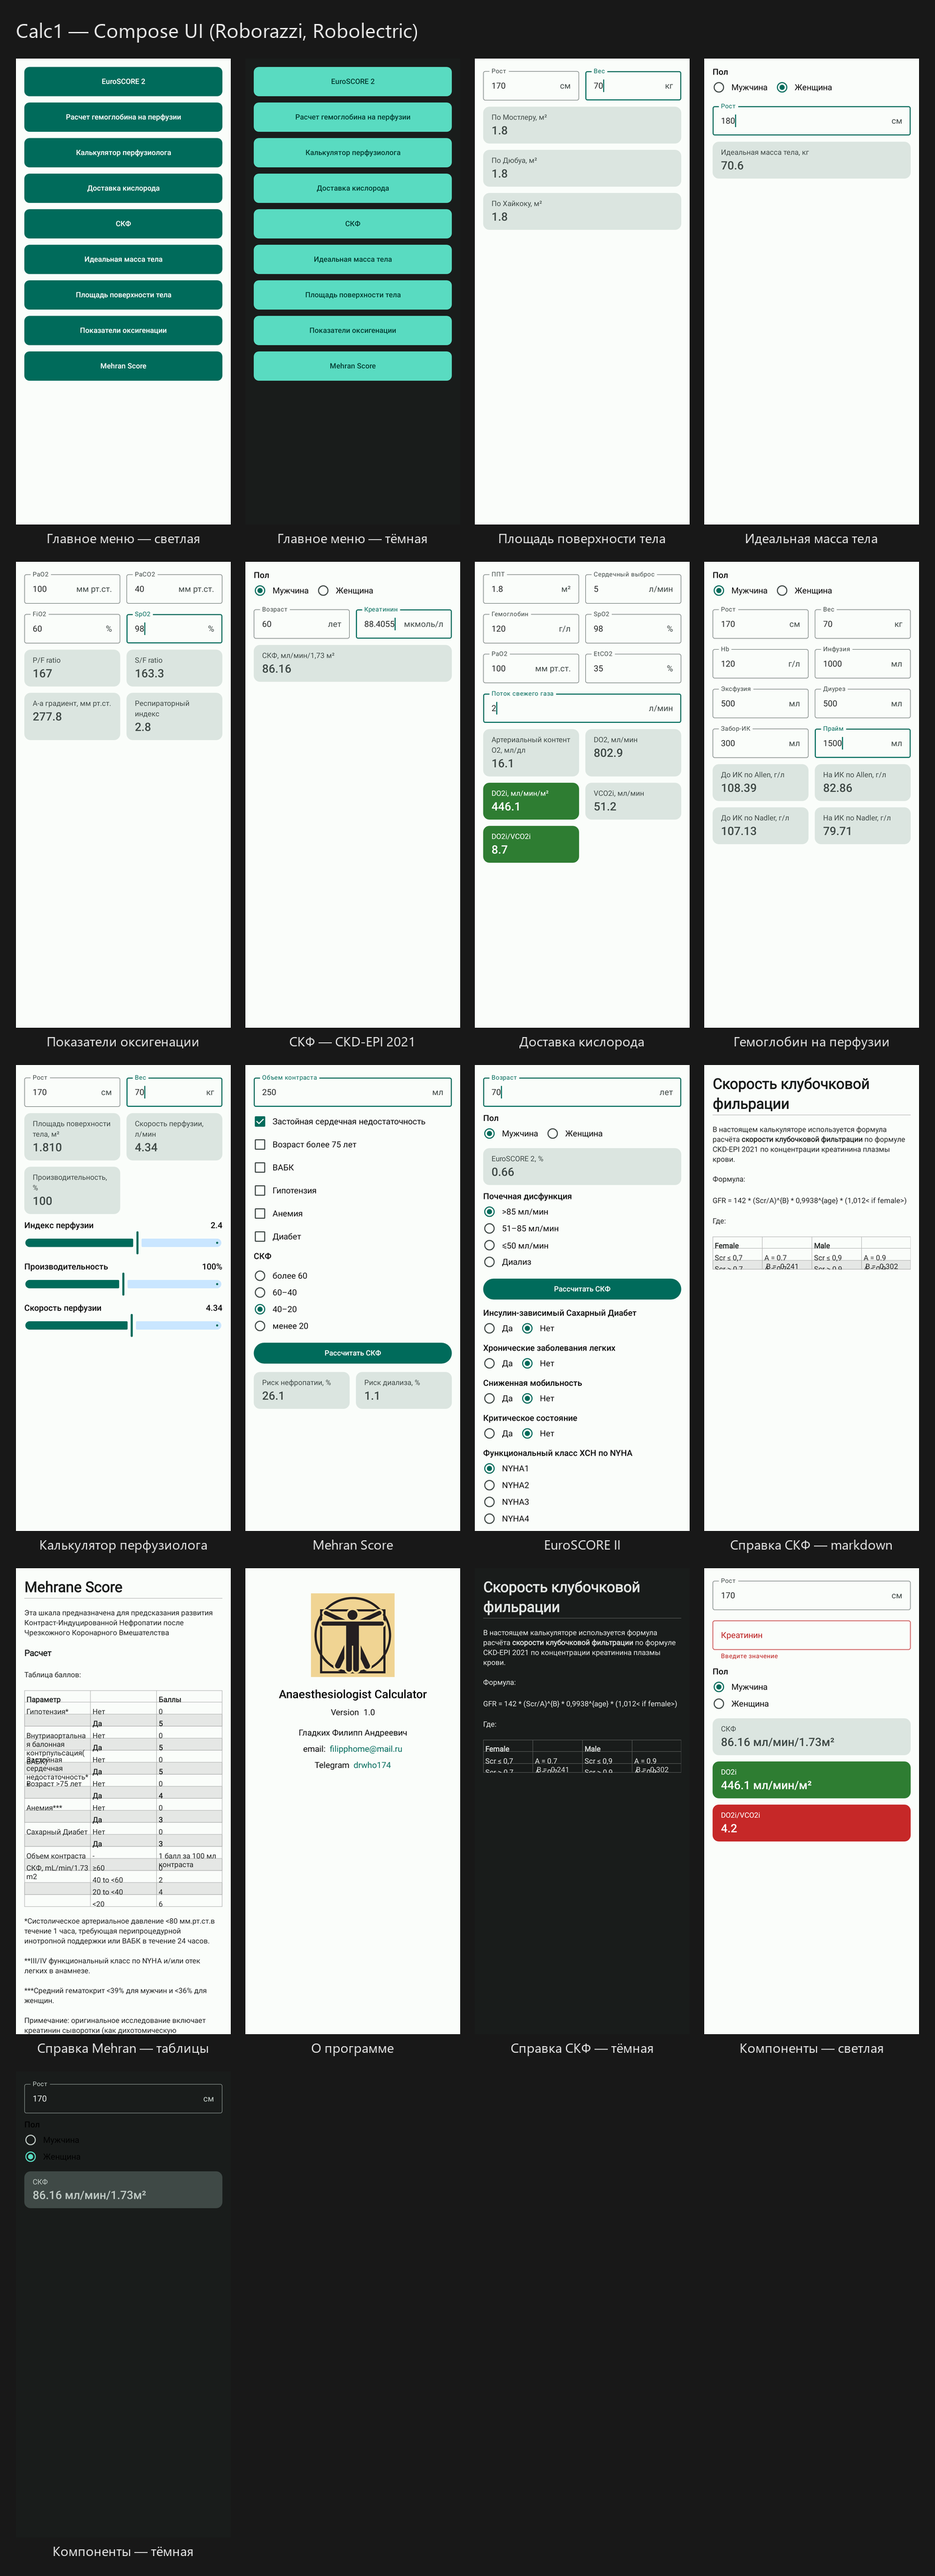
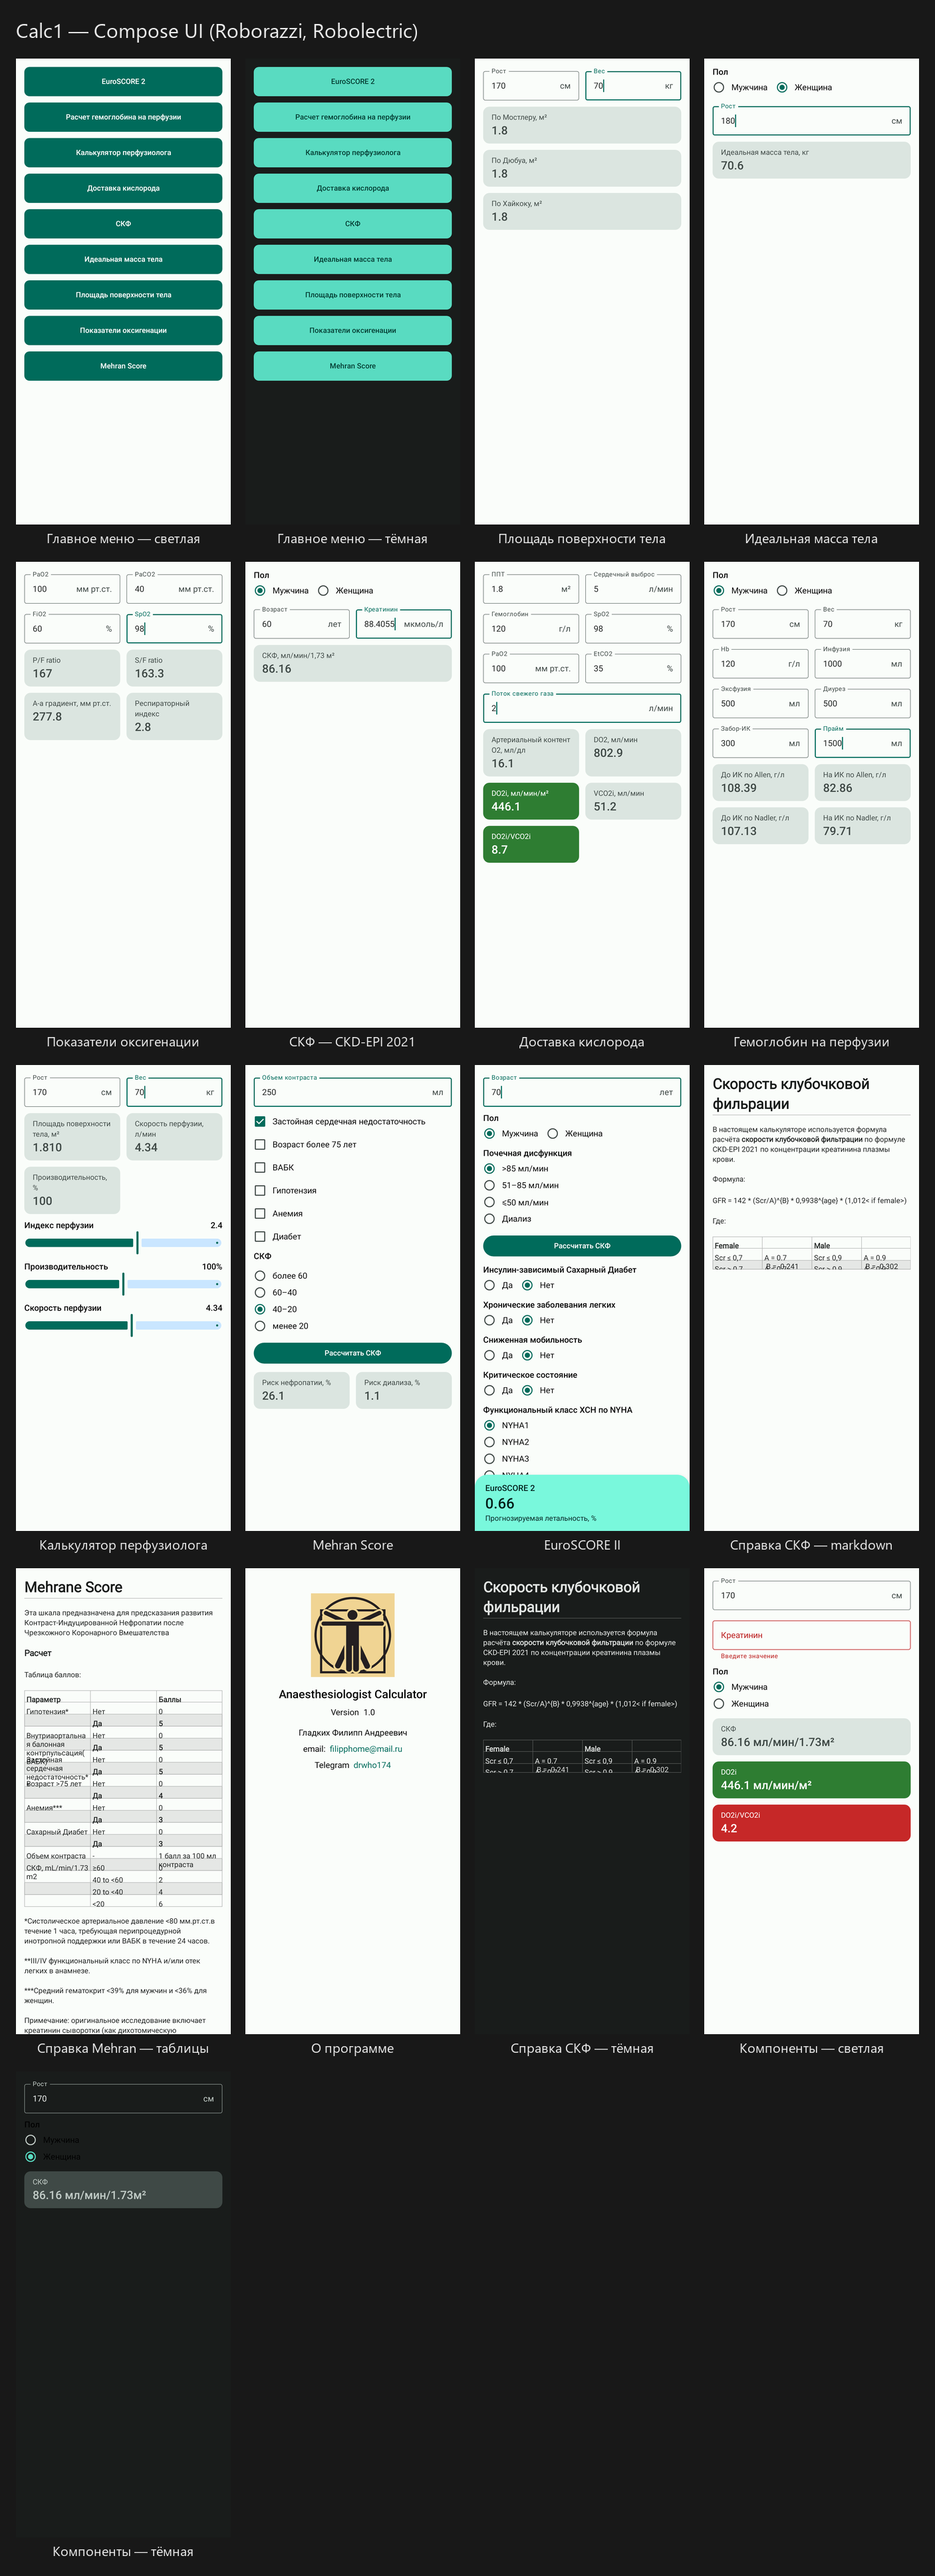
feat(ui): pinned bottom result bar for euroscore

Changed region(s): [[0.4893, 0.4341, 0.734, 0.6202]]

diff --git a/app/src/main/java/com/drwho174/calc1/ui/calc/euroscore/EuroScoreScreen.kt b/app/src/main/java/com/drwho174/calc1/ui/calc/euroscore/EuroScoreScreen.kt
@@ -2,9 +2,12 @@ package com.drwho174.calc1.ui.calc.euroscore
 
 import androidx.compose.foundation.background
 import androidx.compose.foundation.layout.Arrangement
+import androidx.compose.foundation.layout.Box
 import androidx.compose.foundation.layout.Column
+import androidx.compose.foundation.layout.Spacer
 import androidx.compose.foundation.layout.fillMaxSize
 import androidx.compose.foundation.layout.fillMaxWidth
+import androidx.compose.foundation.layout.height
 import androidx.compose.foundation.layout.padding
 import androidx.compose.foundation.rememberScrollState
 import androidx.compose.foundation.verticalScroll
@@ -17,6 +20,7 @@ import androidx.compose.runtime.mutableStateOf
 import androidx.compose.runtime.remember
 import androidx.compose.runtime.saveable.rememberSaveable
 import androidx.compose.runtime.setValue
+import androidx.compose.ui.Alignment
 import androidx.compose.ui.Modifier
 import androidx.compose.ui.res.stringResource
 import androidx.compose.ui.tooling.preview.Preview
@@ -32,10 +36,10 @@ import com.drwho174.calc1.domain.Urgency
 import com.drwho174.calc1.domain.euroScore2PredictedMortality
 import com.drwho174.calc1.domain.renalDiseaseFor
 import com.drwho174.calc1.ui.common.format
+import com.drwho174.calc1.ui.components.BottomResultBar
 import com.drwho174.calc1.ui.components.ChoiceGroup
 import com.drwho174.calc1.ui.components.CkdEpiSheet
 import com.drwho174.calc1.ui.components.NumberField
-import com.drwho174.calc1.ui.components.ResultCard
 import com.drwho174.calc1.ui.theme.Calc1Theme
 
 /** EuroSCORE II: 17 факторов риска и прогноз летальности. */
@@ -130,14 +134,18 @@ fun EuroScoreScreen(modifier: Modifier = Modifier) {
         ProcedureWeight.THREE_PROCEDURES to stringResource(R.string.threeProcedures),
     )
 
-    Column(
+    Box(
         modifier = modifier
             .fillMaxSize()
-            .background(MaterialTheme.colorScheme.background)
-            .verticalScroll(rememberScrollState())
-            .padding(16.dp),
-        verticalArrangement = Arrangement.spacedBy(12.dp),
+            .background(MaterialTheme.colorScheme.background),
     ) {
+        Column(
+            modifier = Modifier
+                .fillMaxSize()
+                .verticalScroll(rememberScrollState())
+                .padding(16.dp),
+            verticalArrangement = Arrangement.spacedBy(12.dp),
+        ) {
         NumberField(
             value = age,
             onValueChange = { age = it },
@@ -153,17 +161,6 @@ fun EuroScoreScreen(modifier: Modifier = Modifier) {
             label = { female -> if (female) femaleLabel else maleLabel },
             horizontal = true,
         )
-
-        if (mortality != null) {
-            ResultCard(
-                title = stringResource(
-                    R.string.result_with_unit,
-                    stringResource(R.string.name_euroscore_2),
-                    "%",
-                ),
-                value = mortality.format(2),
-            )
-        }
 
         ChoiceGroup(
             title = stringResource(R.string.renalDisfunction),
@@ -272,6 +269,22 @@ fun EuroScoreScreen(modifier: Modifier = Modifier) {
             title = stringResource(R.string.aortaSurgery),
             checked = aortaSurgery,
             onCheckedChange = { aortaSurgery = it },
+        )
+
+            // Место под закреплённую панель результата, чтобы последние поля
+            // не прятались за ней при прокрутке.
+            Spacer(Modifier.height(150.dp))
+        }
+
+        BottomResultBar(
+            title = stringResource(R.string.name_euroscore_2),
+            value = mortality?.format(2) ?: "—",
+            caption = stringResource(
+                R.string.result_with_unit,
+                stringResource(R.string.predicted_mortality),
+                "%",
+            ),
+            modifier = Modifier.align(Alignment.BottomCenter),
         )
     }
 

diff --git a/app/src/main/java/com/drwho174/calc1/ui/components/BottomResultBar.kt b/app/src/main/java/com/drwho174/calc1/ui/components/BottomResultBar.kt
@@ -1,0 +1,55 @@
+package com.drwho174.calc1.ui.components
+
+import androidx.compose.foundation.layout.Column
+import androidx.compose.foundation.layout.fillMaxWidth
+import androidx.compose.foundation.layout.padding
+import androidx.compose.foundation.shape.RoundedCornerShape
+import androidx.compose.material3.MaterialTheme
+import androidx.compose.material3.Surface
+import androidx.compose.material3.Text
+import androidx.compose.runtime.Composable
+import androidx.compose.ui.Modifier
+import androidx.compose.ui.text.font.FontWeight
+import androidx.compose.ui.unit.dp
+
+/**
+ * Закреплённая снизу панель результата — как в MDCalc: карточка с крупным
+ * значением, которая остаётся на месте, пока содержимое экрана прокручивается
+ * под ней.
+ *
+ * Вызывать внутри `Box`, выравнивая по `Alignment.BottomCenter`.
+ */
+@Composable
+fun BottomResultBar(
+    title: String,
+    value: String,
+    modifier: Modifier = Modifier,
+    caption: String? = null,
+) {
+    Surface(
+        modifier = modifier.fillMaxWidth(),
+        shape = RoundedCornerShape(topStart = 24.dp, topEnd = 24.dp),
+        color = MaterialTheme.colorScheme.primaryContainer,
+        contentColor = MaterialTheme.colorScheme.onPrimaryContainer,
+        shadowElevation = 12.dp,
+    ) {
+        Column(
+            modifier = Modifier.padding(horizontal = 20.dp, vertical = 16.dp),
+        ) {
+            Text(text = title, style = MaterialTheme.typography.titleMedium)
+            Text(
+                text = value,
+                style = MaterialTheme.typography.headlineMedium,
+                fontWeight = FontWeight.SemiBold,
+                modifier = Modifier.padding(top = 2.dp),
+            )
+            if (caption != null) {
+                Text(
+                    text = caption,
+                    style = MaterialTheme.typography.bodyMedium,
+                    modifier = Modifier.padding(top = 2.dp),
+                )
+            }
+        }
+    }
+}
